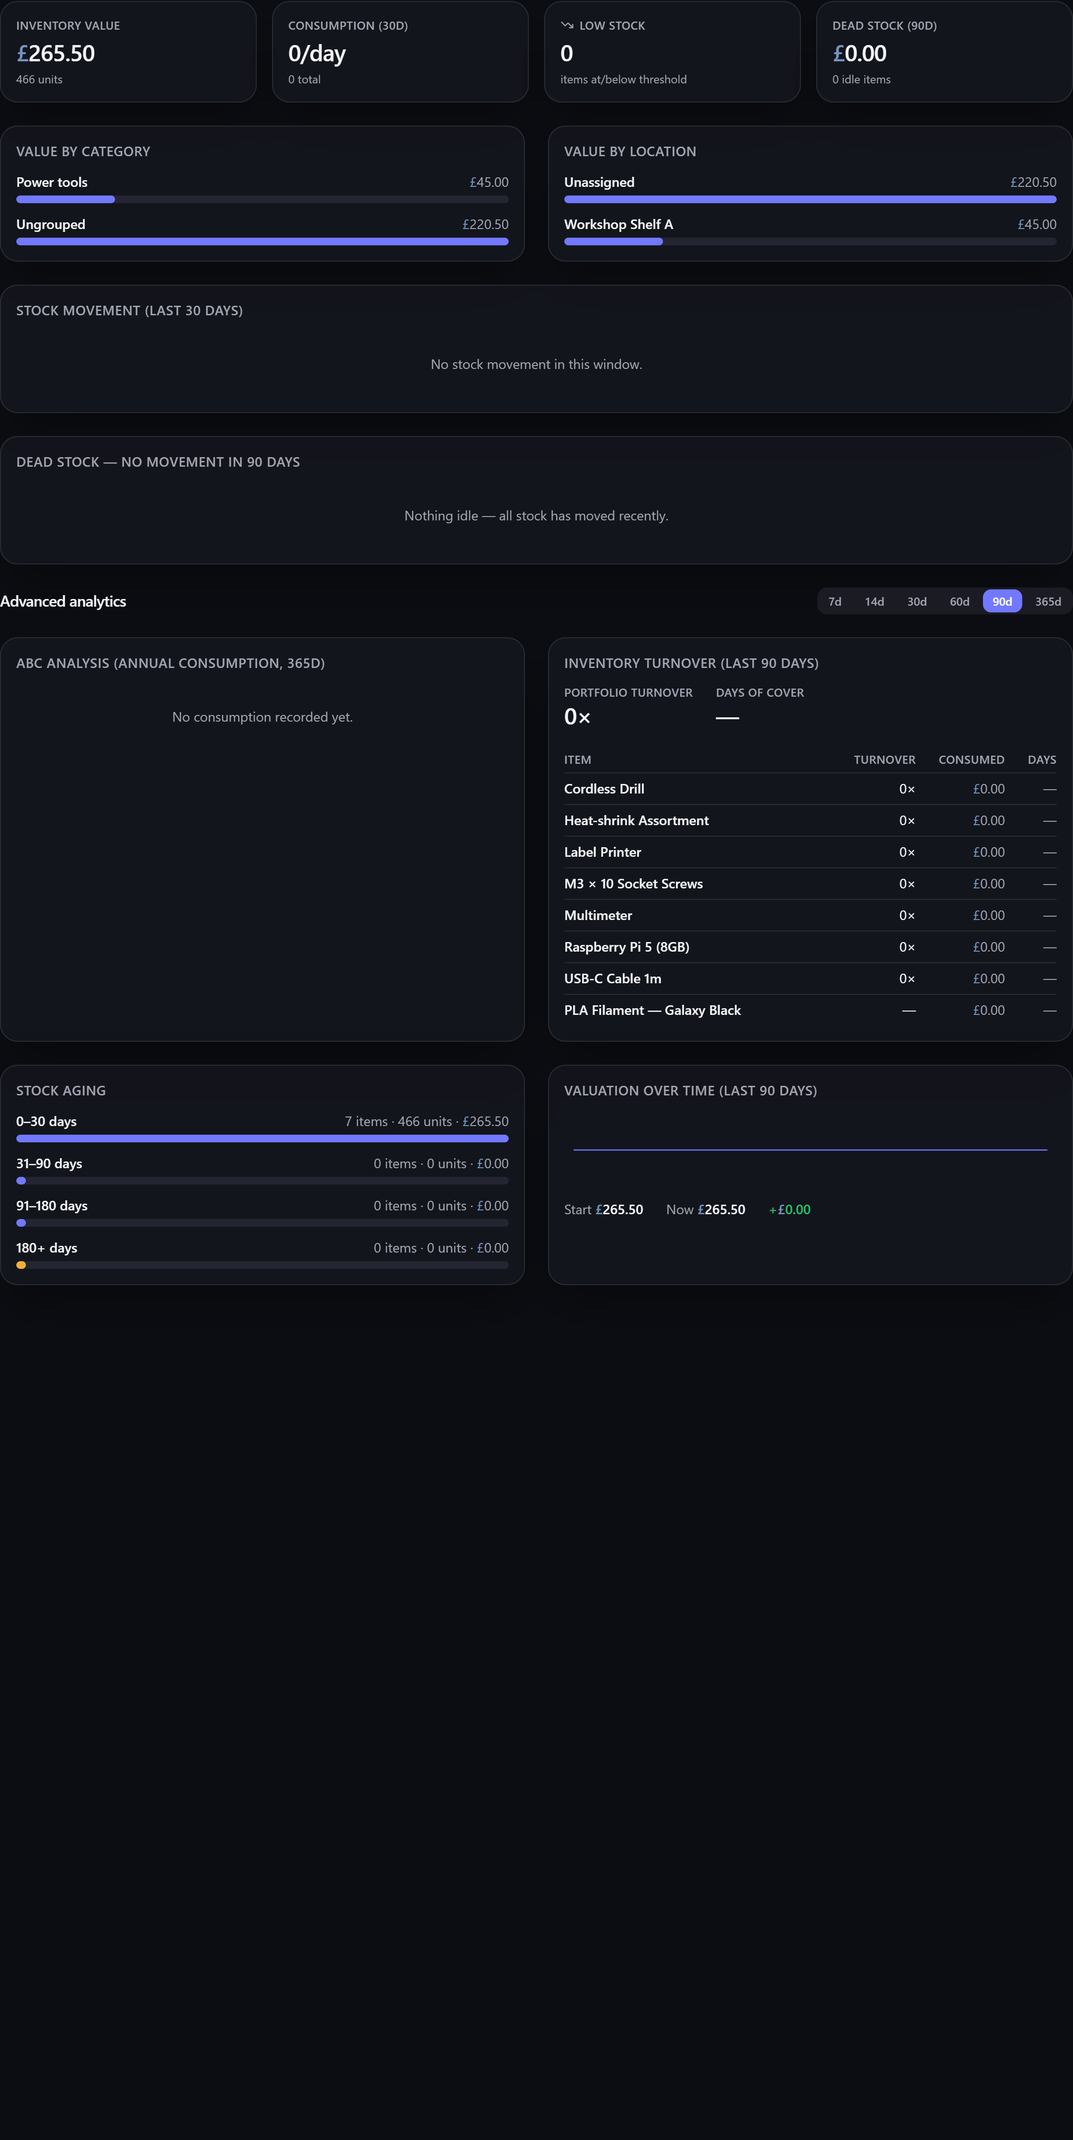
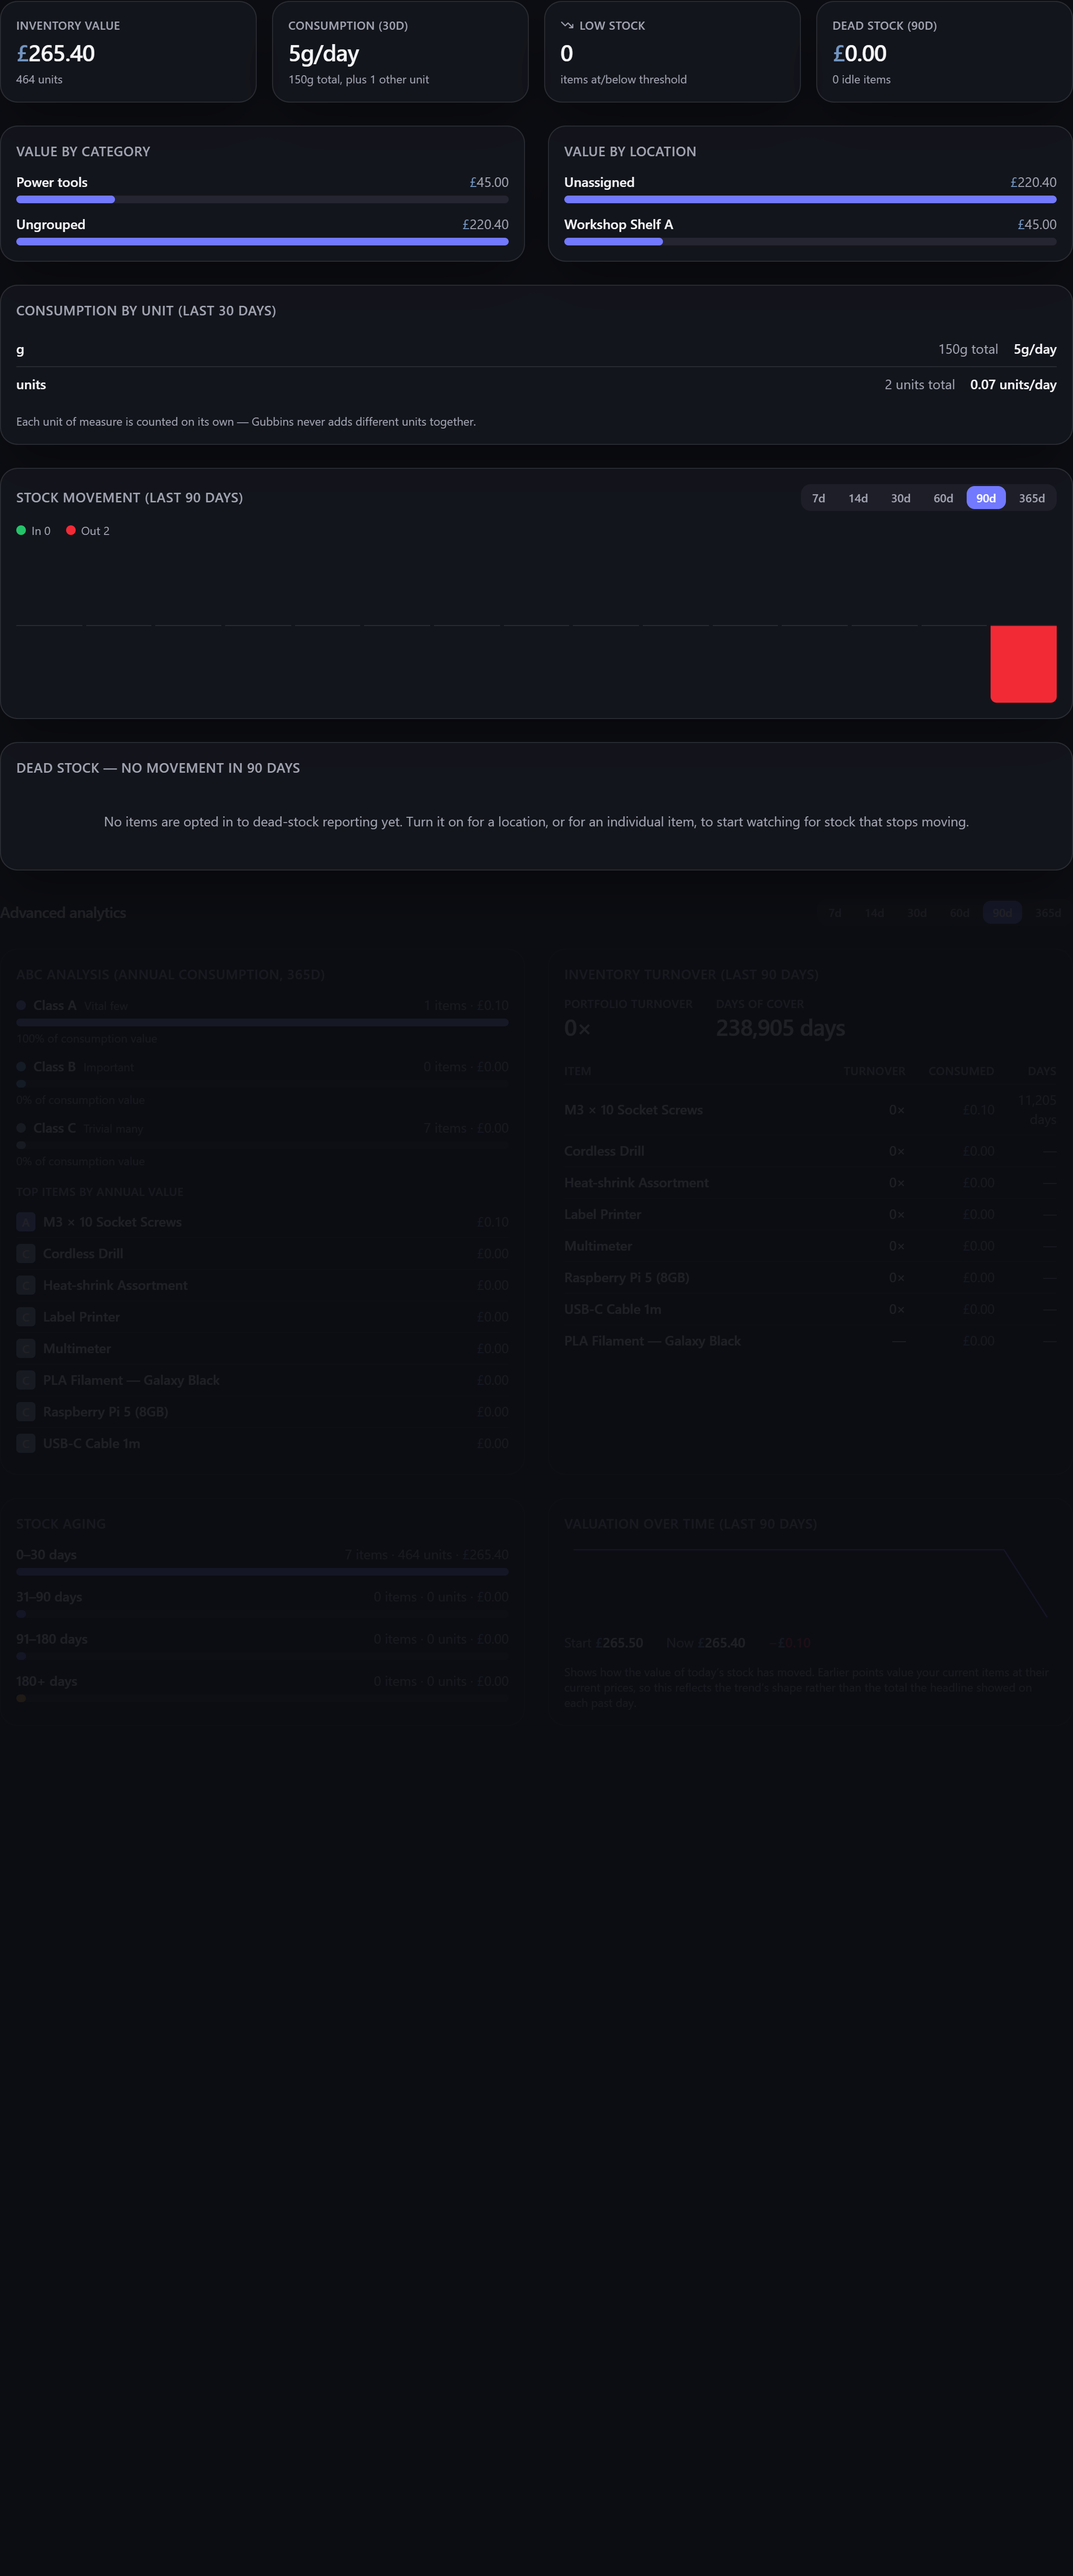
Fix what review found in the per-unit consumption report (#685)
- A gauge's `unit_of_measure` describes what is inside it, so a *count* of gauge
  items was being added to the measure of their contents — two cylinders leaving
  counted as two more litres. The read now labels a quantity delta with a unit
  only when the item is not a gauge, so a gauge's own count falls to the
  unitless line where it belongs. Nothing forbids a gauge carrying a quantity;
  an import or a check-out can put one there.
- Consumed amounts now print through the shared `measure` formatter, so a
  figure reads exactly as the gauge it came from does (`400g`, not `400 g`) and
  rounds the same way. One `formatConsumed` helper serves both the headline tile
  and the panel, so the two cannot drift.
- The report CSV export had no test driving it, and its repository fixture still
  returned the old scalar shape — it would have thrown on the first test that
  exercised the path. Fixture corrected and the path covered end-to-end.
- Regenerated the Reports wiki screenshot, which no longer matched the screen,
  and extended its alt text. The generator now draws a little stock down before
  that capture, so the per-unit panel photographs with something in it.
- The audit doc that recorded this defect still described it in the present
  tense as an open problem; it now records what was found and that it is fixed.

diff --git a/src/features/reports/components/ConsumptionBreakdown.tsx b/src/features/reports/components/ConsumptionBreakdown.tsx
@@ -1,6 +1,28 @@
-import { useT } from '@/features/i18n';
+import { useT, type TypedTranslator } from '@/features/i18n';
 import type { Formatters } from '@/lib/format';
 import type { ConsumptionRateReport } from '../reports';
+
+/**
+ * A consumed amount rendered **in its own unit**: `400g` through the shared `measure` formatter —
+ * the same seam every gauge surface prints a net value with, so a consumption figure reads exactly
+ * as the gauge it came from does — or, for the unitless line, a plain count of units.
+ *
+ * Exported because the Reports screen's headline tile shows the leading line and must print it
+ * identically to the panel below; one function is what keeps the two from drifting.
+ */
+export function formatConsumed(
+  amount: number,
+  unit: string | null,
+  formatters: Formatters,
+  t: TypedTranslator,
+): string {
+  if (unit !== null) return formatters.measure(amount, unit);
+  // `quantity` carries no unit of its own, so the noun comes from the catalog rather than a
+  // concatenation here; it is rounded to match what `measure` does with a fractional value.
+  return t('reports.consumption.unitlessAmount', {
+    vars: { amount: formatters.quantity(Math.round(amount * 100) / 100) },
+  });
+}
 
 /**
  * The consumption rate, one row per **unit of measure** (issue #685).
@@ -30,26 +52,25 @@ export function ConsumptionBreakdown({
   return (
     <div className="flex flex-col gap-3">
       <ul className="divide-y divide-border" data-testid="consumption-breakdown">
-        {report.lines.map((line) => {
-          const unit = line.unit ?? t('reports.consumption.unitless');
-          return (
-            <li key={line.unit ?? ''} className="flex items-baseline justify-between gap-3 py-2 text-sm">
-              <span className="min-w-0 truncate font-medium">{unit}</span>
-              <span className="flex shrink-0 items-baseline gap-4 text-muted-foreground">
-                <span>
-                  {t('reports.consumption.total', {
-                    vars: { amount: formatters.quantity(line.totalConsumed), unit },
-                  })}
-                </span>
-                <span className="font-medium text-foreground">
-                  {t('reports.consumption.rate', {
-                    vars: { amount: formatters.quantity(line.perDay), unit },
-                  })}
-                </span>
+        {report.lines.map((line) => (
+          <li key={line.unit ?? ''} className="flex items-baseline justify-between gap-3 py-2 text-sm">
+            <span className="min-w-0 truncate font-medium">
+              {line.unit ?? t('reports.consumption.unitless')}
+            </span>
+            <span className="flex shrink-0 items-baseline gap-4 text-muted-foreground">
+              <span>
+                {t('reports.consumption.total', {
+                  vars: { amount: formatConsumed(line.totalConsumed, line.unit, formatters, t) },
+                })}
               </span>
-            </li>
-          );
-        })}
+              <span className="font-medium text-foreground">
+                {t('reports.consumption.rate', {
+                  vars: { amount: formatConsumed(line.perDay, line.unit, formatters, t) },
+                })}
+              </span>
+            </span>
+          </li>
+        ))}
       </ul>
       <p className="text-xs text-muted-foreground">{t('reports.consumption.note')}</p>
     </div>

diff --git a/src/features/reports/ReportsScreen.tsx b/src/features/reports/ReportsScreen.tsx
@@ -28,7 +28,7 @@ import type { Formatters } from '@/lib/format';
 import { plural } from '@/lib/plural';
 import { useFormatters } from '@/lib/useFormatters';
 import { ValueBreakdown } from './components/ValueBreakdown';
-import { ConsumptionBreakdown } from './components/ConsumptionBreakdown';
+import { ConsumptionBreakdown, formatConsumed } from './components/ConsumptionBreakdown';
 import { MovementChart } from './components/MovementChart';
 import { AbcBreakdown } from './components/AbcBreakdown';
 import { TurnoverTable } from './components/TurnoverTable';
@@ -85,15 +85,13 @@ export function ReportsScreen() {
   // #685): grams, millilitres and screws are not addable. The headline tile therefore shows the
   // largest single unit — the lines are ordered biggest-first — and counts the rest.
   const leadConsumption = consumption.data?.lines[0];
-  const leadConsumptionUnit = leadConsumption?.unit ?? t('reports.consumption.unitless');
   const otherConsumptionUnits = Math.max(0, (consumption.data?.lines.length ?? 0) - 1);
   // The tile's sub-label: the leading unit's total, saying how many other units are not in it —
   // or, once the report has loaded with nothing in it, that nothing was consumed at all.
   const consumptionSub = leadConsumption
     ? t(otherConsumptionUnits > 0 ? 'reports.consumption.totalWithMore' : 'reports.consumption.total', {
         vars: {
-          amount: f.quantity(leadConsumption.totalConsumed),
-          unit: leadConsumptionUnit,
+          amount: formatConsumed(leadConsumption.totalConsumed, leadConsumption.unit, f, t),
           count: otherConsumptionUnits,
         },
       })
@@ -286,13 +284,10 @@ export function ReportsScreen() {
               value={
                 leadConsumption ? (
                   <AnimatedNumber
-                    value={Math.round(leadConsumption.perDay * 10) / 10}
+                    value={leadConsumption.perDay}
                     format={(n) =>
                       t('reports.consumption.rate', {
-                        vars: {
-                          amount: f.quantity(Math.round(n * 10) / 10),
-                          unit: leadConsumptionUnit,
-                        },
+                        vars: { amount: formatConsumed(n, leadConsumption.unit, f, t) },
                       })
                     }
                     animateOnMount

diff --git a/src/db/repositories/ReportRepository.ts b/src/db/repositories/ReportRepository.ts
@@ -872,10 +872,18 @@ export class ReportRepository extends BaseRepository {
    * millilitres, metres and screws all reduce a stock. Adding them produced a number of nothing,
    * so each row carries its item's unit and {@link summariseConsumption} groups on it.
    *
-   * The `UNION ALL` is what keeps the two deltas apart: a row is emitted per *delta*, not per
-   * ledger entry, so an entry that somehow carried both never has them folded into one
-   * magnitude. Joining `items` cannot drop history — `item_history.item_id` is a `NOT NULL` FK
-   * that cascades on delete — so the set of counted deltas is exactly what it was before.
+   * The `UNION ALL` emits a row per *delta*, not per ledger entry, so an entry that carried both
+   * changes contributes each magnitude on its own row rather than having them added together
+   * before anything knows what they measure.
+   *
+   * A gauge's `unit_of_measure` describes **what is inside it**, never the containers themselves,
+   * so a `quantity_delta` on a gauge item is a bare count and takes no unit — the `CASE` is what
+   * stops "3 cylinders" being counted as 3 of the litres those cylinders hold. (A gauge is not
+   * supposed to carry a quantity at all, but nothing in the schema forbids it, and an import or a
+   * check-out can put one there.)
+   *
+   * Joining `items` cannot drop history — `item_history.item_id` is a `NOT NULL` FK that cascades
+   * on delete — so the set of counted deltas is exactly what it was before.
    */
   async consumptionRate(windowDays: number, now: number = nowMs()): Promise<ConsumptionRateReport> {
     const windowStart = addCalendarDays(now, -Math.max(1, windowDays));
@@ -884,7 +892,9 @@ export class ReportRepository extends BaseRepository {
       unit: string | null;
       consumed: number;
     }>(
-      `SELECT h.created_at AS created_at, i.unit_of_measure AS unit, -h.quantity_delta AS consumed
+      `SELECT h.created_at AS created_at,
+              CASE WHEN i.tracking_mode = 'CONSUMABLE_GAUGE' THEN NULL ELSE i.unit_of_measure END AS unit,
+              -h.quantity_delta AS consumed
          FROM item_history h JOIN items i ON i.id = h.item_id
         WHERE h.created_at >= ? AND h.created_at < ? AND h.quantity_delta < 0
         UNION ALL

diff --git a/src/features/export/run-export.test.ts b/src/features/export/run-export.test.ts
@@ -20,7 +20,16 @@ const reportRepo = {
   inventoryValue: vi.fn(async () => ({ totalValue: 0, itemCount: 0, byCategory: [], byLocation: [] })),
   consumptionRate: vi.fn(async (...args: unknown[]) => {
     calls.consumptionRate = args;
-    return { windowStart: 0, windowEnd: 0, windowDays: 0, totalConsumed: 0, perDay: 0 };
+    // Two units, because the report is per unit of measure and must never be summed across them.
+    return {
+      windowStart: 0,
+      windowEnd: 0,
+      windowDays: 30,
+      lines: [
+        { unit: 'g', totalConsumed: 400, perDay: 40 },
+        { unit: null, totalConsumed: 6, perDay: 0.6 },
+      ],
+    };
   }),
   movement: vi.fn(async (...args: unknown[]) => {
     calls.movement = args;
@@ -140,6 +149,17 @@ describe('report CSV export — selected window reaches the repository', () => {
     usePreferencesStore.setState({ reportsSpendWindow: 999 as never });
     await runExport('REPORTS', { includeInactive: false, reportKind: 'SPEND' });
     expect(calls.spendAnalytics?.[0]).toBe(DEFAULT_ANALYTICS_WINDOW);
+  });
+
+  it('CONSUMPTION exports one labelled row per unit of measure (issue #685)', async () => {
+    await runExport('REPORTS', { includeInactive: false, reportKind: 'CONSUMPTION' });
+    const [blob] = downloadSpy.mock.calls[0]! as [Blob, string];
+    const rows = (await blob.text()).split('\r\n');
+    expect(rows[0]).toContain('unit');
+    // One row per unit, each carrying its own total — never one figure across the two.
+    expect(rows).toHaveLength(3);
+    expect(rows[1]).toContain(',g,400,40');
+    expect(rows[2]).toContain(',,6,0.6');
   });
 
   it('leaves fixed-span reports on their constants', async () => {

diff --git a/src/db/repositories/ReportRepository.test.ts b/src/db/repositories/ReportRepository.test.ts
@@ -673,6 +673,32 @@ describe('ReportRepository', () => {
         { unit: null, totalConsumed: 6, perDay: 0.6 },
       ]);
     });
+
+    it('counts a gauge item itself as a bare count, not as more of what it holds', async () => {
+      const now = Date.now();
+      // A gauge's unit describes its contents, so 2 cylinders leaving is not 2 more litres.
+      const cylinder = await items.create({
+        name: 'Argon cylinder',
+        trackingMode: 'CONSUMABLE_GAUGE',
+        gauge: { unitOfMeasure: 'L', grossCapacity: 10, currentNetValue: 10 },
+      });
+      await driver.execute(
+        `INSERT INTO item_history (id, item_id, action, quantity_delta, created_at)
+         VALUES (?, ?, 'CHECKED_OUT', -2, ?);`,
+        [crypto.randomUUID(), cylinder.id, now - 3 * MS_PER_DAY],
+      );
+      await driver.execute(
+        `INSERT INTO item_history (id, item_id, action, net_value_delta, created_at)
+         VALUES (?, ?, 'GAUGE_UPDATE', -4, ?);`,
+        [crypto.randomUUID(), cylinder.id, now - 2 * MS_PER_DAY],
+      );
+
+      const report = await reports.consumptionRate(10, now);
+      expect(report.lines).toEqual([
+        { unit: 'L', totalConsumed: 4, perDay: 0.4 },
+        { unit: null, totalConsumed: 2, perDay: 0.2 },
+      ]);
+    });
   });
 
   describe('movement', () => {

diff --git a/src/features/reports/ReportsScreen.test.tsx b/src/features/reports/ReportsScreen.test.tsx
@@ -488,7 +488,7 @@ describe('ReportsScreen — consumption is reported per unit of measure (issue #
     // The rate carries its unit, and the tile says the figure is not the whole story.
     // (The figure itself animates up from 0, so only the unit is asserted here.)
     expect(card.textContent).toContain('g/day');
-    expect(card.textContent).toContain('30 g total, plus 1 other unit');
+    expect(card.textContent).toContain('30g total, plus 1 other unit');
   });
 
   it('lists every unit separately, with no total across them', () => {
@@ -497,8 +497,9 @@ describe('ReportsScreen — consumption is reported per unit of measure (issue #
     const list = screen.getByTestId('consumption-breakdown');
     const rows = Array.from(list.querySelectorAll('li')).map((li) => li.textContent ?? '');
     expect(rows).toHaveLength(2);
-    expect(rows[0]).toContain('30 g total');
-    expect(rows[0]).toContain('1 g/day');
+    // A real unit prints through the shared `measure` formatter, exactly as a gauge does.
+    expect(rows[0]).toContain('30g total');
+    expect(rows[0]).toContain('1g/day');
     // Items with no unit of measure read as a plain count of units.
     expect(rows[1]).toContain('5 units total');
     expect(rows[1]).toContain('0.2 units/day');

diff --git a/docs/todo/weak-item-archetypes_2026-07-31.md b/docs/todo/weak-item-archetypes_2026-07-31.md
@@ -132,9 +132,10 @@ are a signed delta, a weigh-in and a reconfigure — no split that yields a trac
 cutting a 2400 mm board into 600 mm + an 1800 mm offcut is unrepresentable; you must hand-create a
 second item with no link to the first. Compounding it: no pack/case size exists anywhere
 (`pack_qty` is on the *supplier part*, not the item), so "12 boxes = 144 units" is inexpressible,
-and `unit_of_measure` is unvalidated free text with no conversion — `consumptionRate` sums grams,
-millilitres and screws into one scalar
-([ReportRepository.ts:869-878](../../src/db/repositories/ReportRepository.ts#L869-L878)).
+and `unit_of_measure` is unvalidated free text with no conversion — which is why `consumptionRate`
+used to sum grams, millilitres and screws into one scalar. That report now groups by unit and never
+adds two of them together ([#685](https://github.com/BootBlock/Gubbins/issues/685), fixed), but the
+absence of a conversion layer underneath it is unchanged.
 
 Why it ranks first: this is the *core maker/workshop audience*. Two whole preset sections — workshop
 and crafts, eight presets between them — are stock that behaves this way.
@@ -691,12 +692,12 @@ behaviour that does not exist.
    and the Alerts / Upcoming feeds, so a batch approaching its date surfaces before it lapses"
    ([Batches-and-Lots.md](../wiki/Batches-and-Lots.md)) — a second, user-facing defect alongside the
    behavioural one.
-3. **Consumption rate sums incommensurable units** ([#685](https://github.com/BootBlock/Gubbins/issues/685)) into one `totalConsumed` scalar — grams,
-   millilitres and screws added together
-   ([ReportRepository.ts:869-879](../../src/db/repositories/ReportRepository.ts#L869-L879)). There
-   is no `GROUP BY` and no join to `items`, so the mixed figure is the *entire* report: it is
-   rendered on the Reports screen as both a daily rate and a total, and exported to CSV, with no
-   unit and no qualifier.
+3. **Consumption rate summed incommensurable units** ([#685](https://github.com/BootBlock/Gubbins/issues/685)) into one `totalConsumed` scalar — grams,
+   millilitres and screws added together. There was no `GROUP BY` and no join to `items`, so the
+   mixed figure was the *entire* report: it rendered on the Reports screen as both a daily rate and
+   a total, and exported to CSV, with no unit and no qualifier. **Fixed:** the read now joins
+   `items`, the report is one line per unit of measure with no total across them, and the screen and
+   CSV label every figure.
 4. **Clearing an item's activity log can report it as dead stock the next day** ([#686](https://github.com/BootBlock/Gubbins/issues/686)). Dead-stock idle
    days derive from `MAX(item_history.created_at)` over rows carrying a delta
    ([ReportRepository.ts:1059-1061](../../src/db/repositories/ReportRepository.ts#L1059-L1061)),

diff --git a/docs/wiki/Reports-Overview.md b/docs/wiki/Reports-Overview.md
@@ -6,7 +6,7 @@ data, and most can be exported.
 
 **Where to find it:** the **Reports** screen (in the menu, when the module is enabled).
 
-![The Reports screen: valuation, movement, ABC, turnover and aging](images/reports.png)
+![The Reports screen: valuation, consumption by unit, movement, ABC, turnover and aging](images/reports.png)
 
 ## What's in the suite
 
